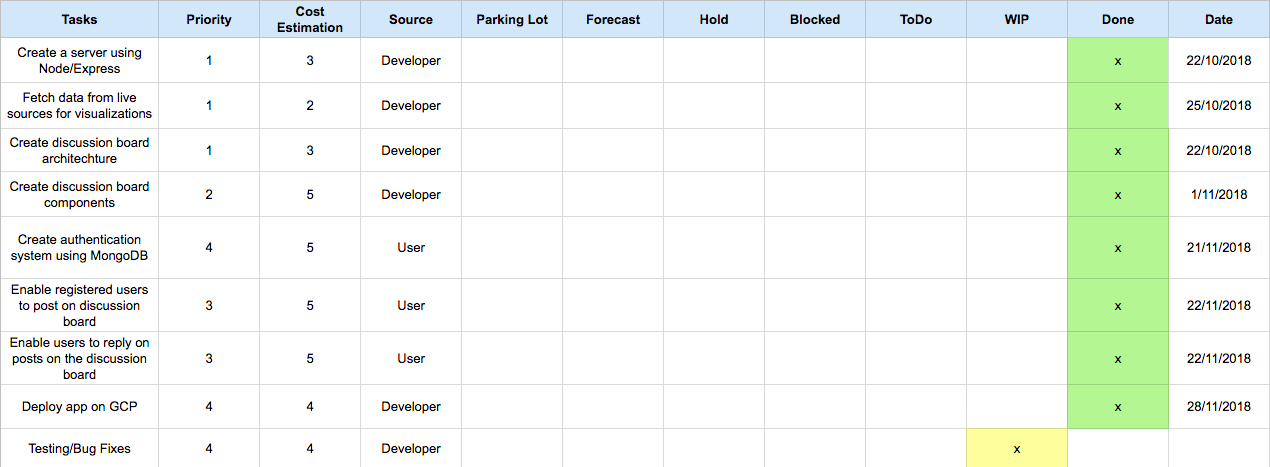
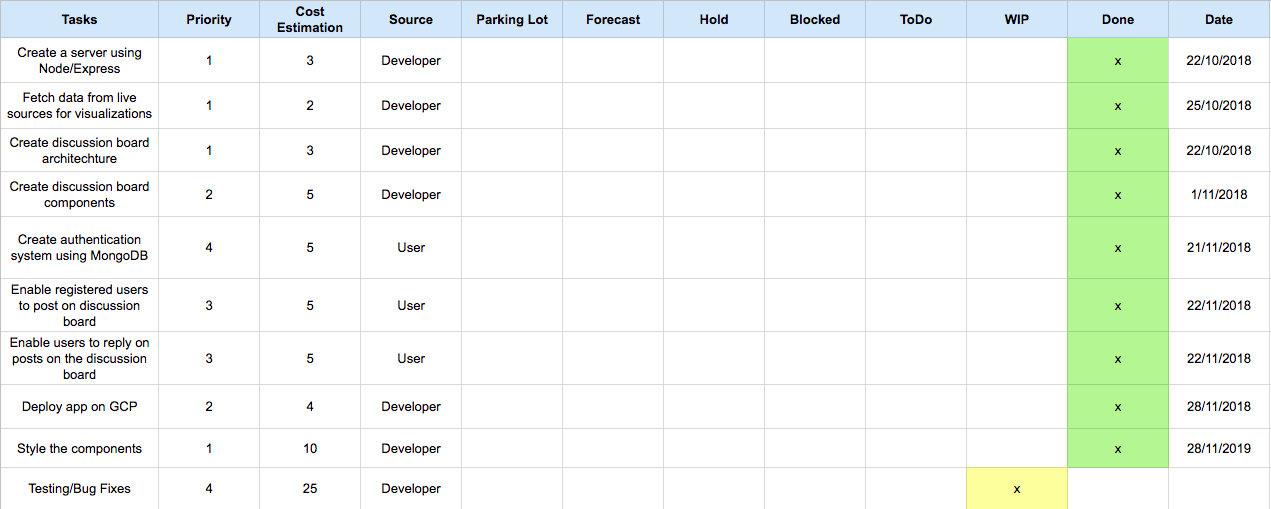
pr95 modified

diff --git a/project.html b/project.html
@@ -242,8 +242,9 @@
       <h3>Retrospective of Last Week</h3>
       <ul>
         <li>Deployed the app on Google Cloud Platform</li>
+        <li>Finished styling the components</li>
         <li>Bug fixes to Login System</li>
-        <li>Velocity : 4</li>
+        <li>Velocity : 14</li>
       </ul>
       <h3>Excel Backlog</h3>
       <img src="images/pr95.png" alt="excel progress report">
